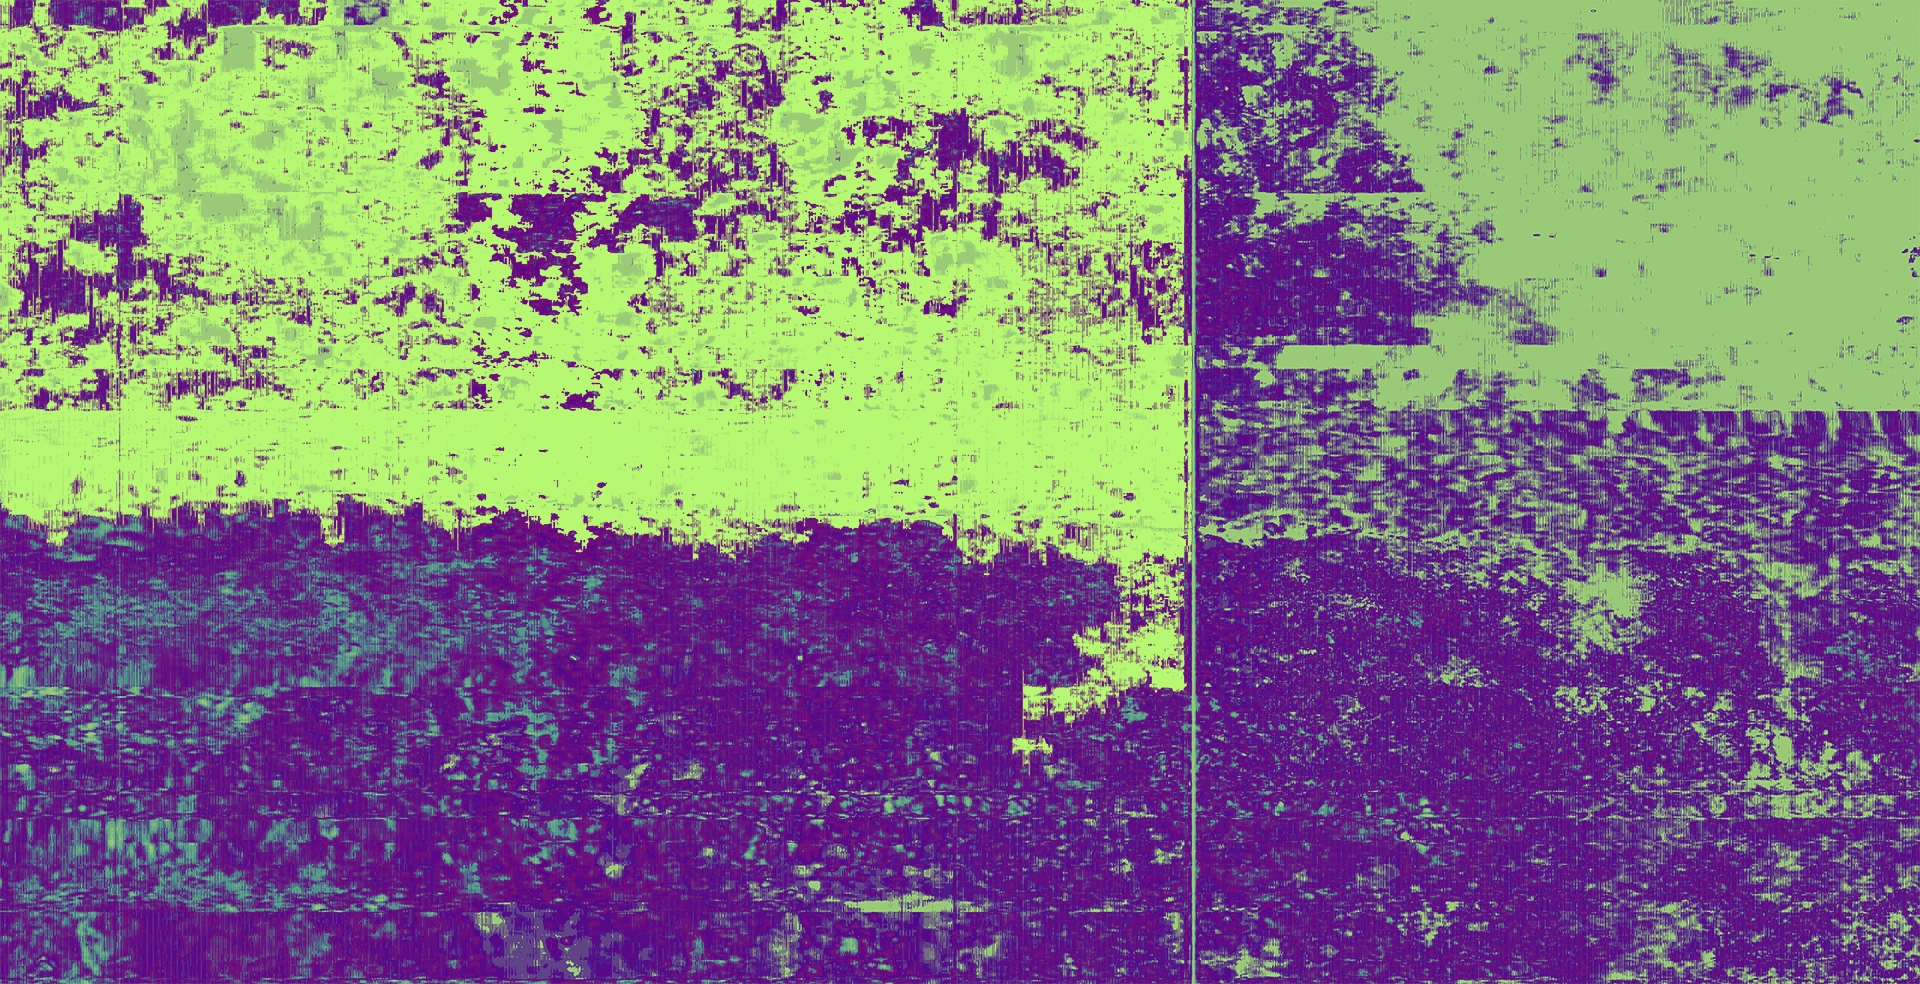
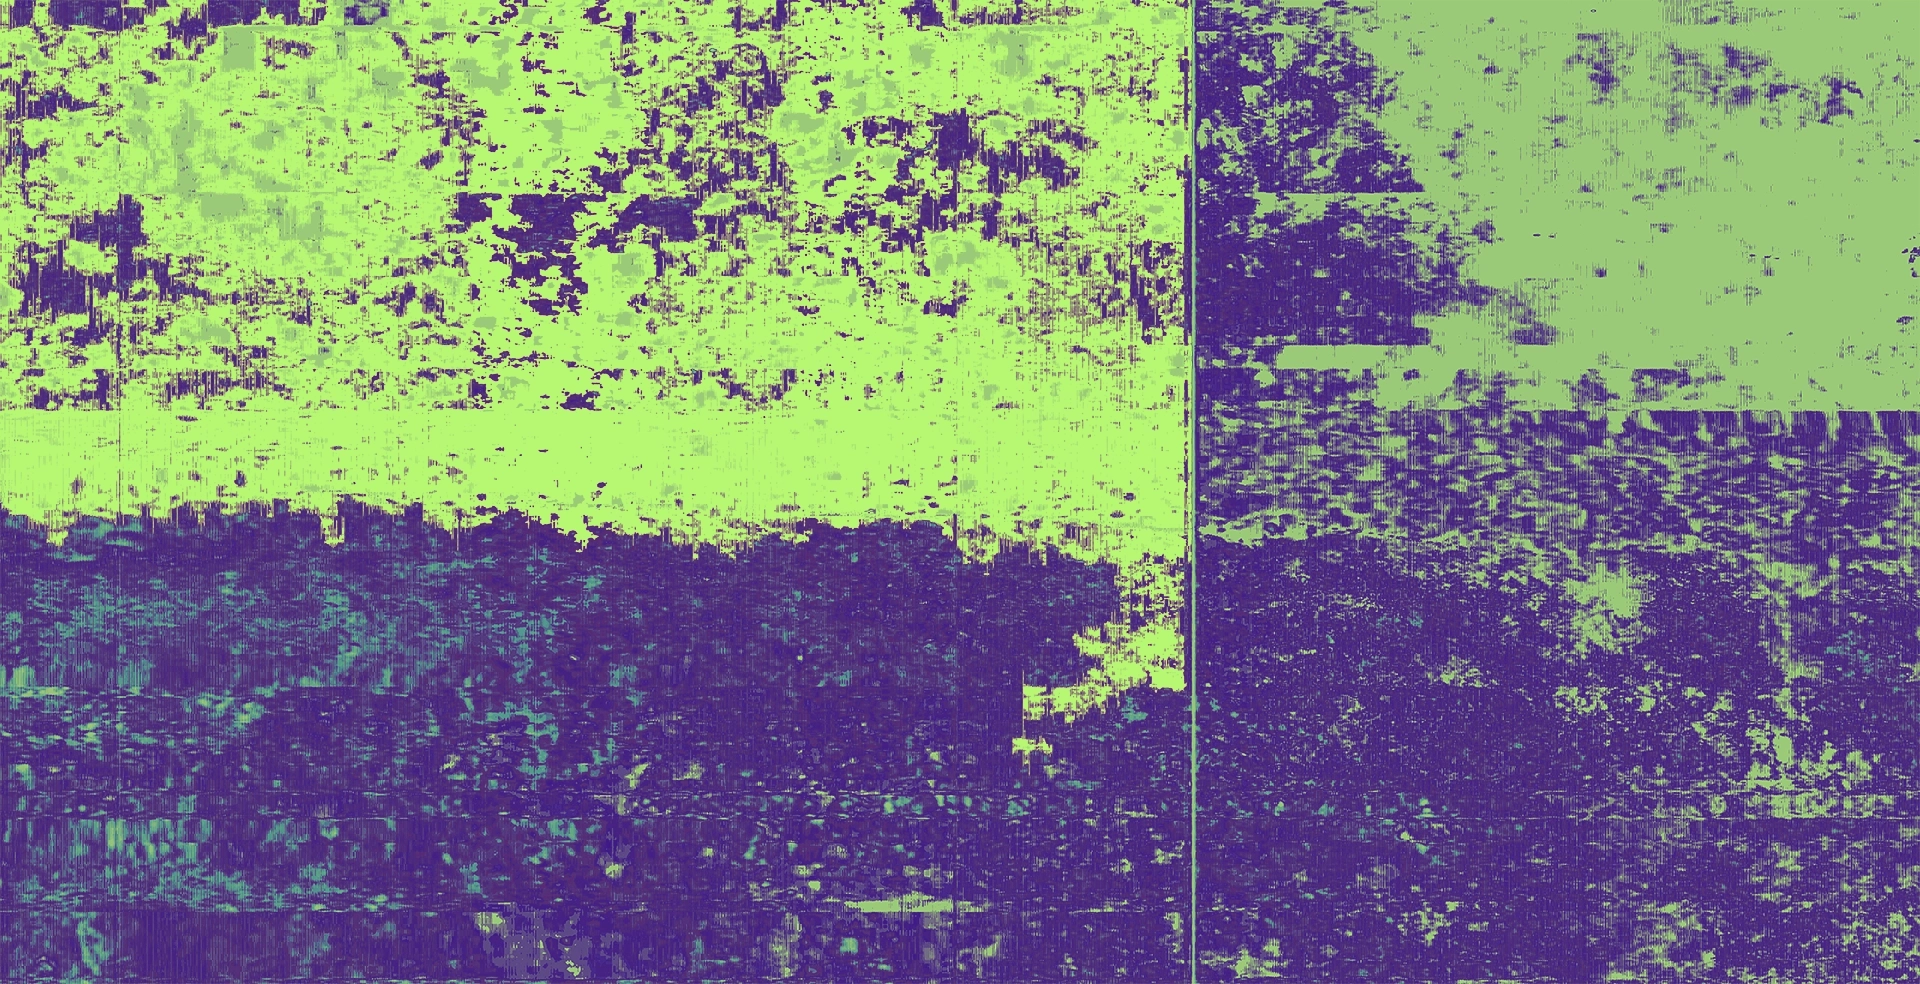
Finito Pipo

diff --git a/Style_Main.css b/Style_Main.css
@@ -192,7 +192,7 @@ a, button, [role="button"], input[type="submit"], input[type="button"], input[ty
   font-size: clamp(14px, 1.5vw, 24px);
   color: #ffffff;
   margin: 0;
-  -webkit-text-stroke: 6px #E967DB;
+  -webkit-text-stroke: 6px #7562C7;
   paint-order: stroke fill;
 }
 
@@ -201,7 +201,7 @@ a, button, [role="button"], input[type="submit"], input[type="button"], input[ty
   font-size: clamp(11px, 1vw, 16px);
   color: #ffffff;
   margin: 0;
-  -webkit-text-stroke: 6px #E967DB;
+  -webkit-text-stroke: 6px #7562C7;
   paint-order: stroke fill;
 }
 
@@ -218,6 +218,7 @@ a, button, [role="button"], input[type="submit"], input[type="button"], input[ty
   z-index: 500;
   box-sizing: border-box;
   overflow: hidden;
+  z-index: 999;
 }
 
 .popup-box.is-open {
@@ -265,7 +266,7 @@ a, button, [role="button"], input[type="submit"], input[type="button"], input[ty
 .popup-box p {
   font-family: 'Garabosse', sans-serif;
   font-size: clamp(11px, 1vw, 16px);
-  color: #000000;
+  color: #463838;
   -webkit-text-stroke: 6px #95D8EF;
   paint-order: stroke fill;
   line-height: 1;
@@ -277,7 +278,7 @@ a, button, [role="button"], input[type="submit"], input[type="button"], input[ty
   top: 12px;
   right: 16px;
   font-family: 'BianzhidaiPearl', sans-serif;
-  color: #000000;
+  color: #463838;
   text-decoration: none;
   font-size: clamp(10px, 1.8vw, 16px);
 }

diff --git a/Machine.html b/Machine.html
@@ -92,7 +92,7 @@
     <br><br>
     <h2><span class="highlight">Elle transforme les spectateurs en activateurs.</span></h2>
     <div class="banner"><video width="100%" autoplay loop>
-      <source src="images/Turn.mp4" type="video/mp4">
+      <source src="images/Maquette_Overview.mp4" type="video/mp4">
       </video>
     </div>
     <p>Équipée de commandes mécaniques et numériques, l'Anarchiveuse fait jouer les archives en croisant les époques et les thématiques.</p>

diff --git a/Style_Archives.css b/Style_Archives.css
@@ -192,7 +192,7 @@ a, button, [role="button"], input[type="submit"], input[type="button"], input[ty
 }
 
 .vignette .titre {
-  font-family: 'BianzhidaiCloud', sans-serif;
+  font-family: 'BianzhidaiPearl', sans-serif;
   color: #463838;
   -webkit-text-stroke: 6px #B6F772;
   paint-order: stroke fill;